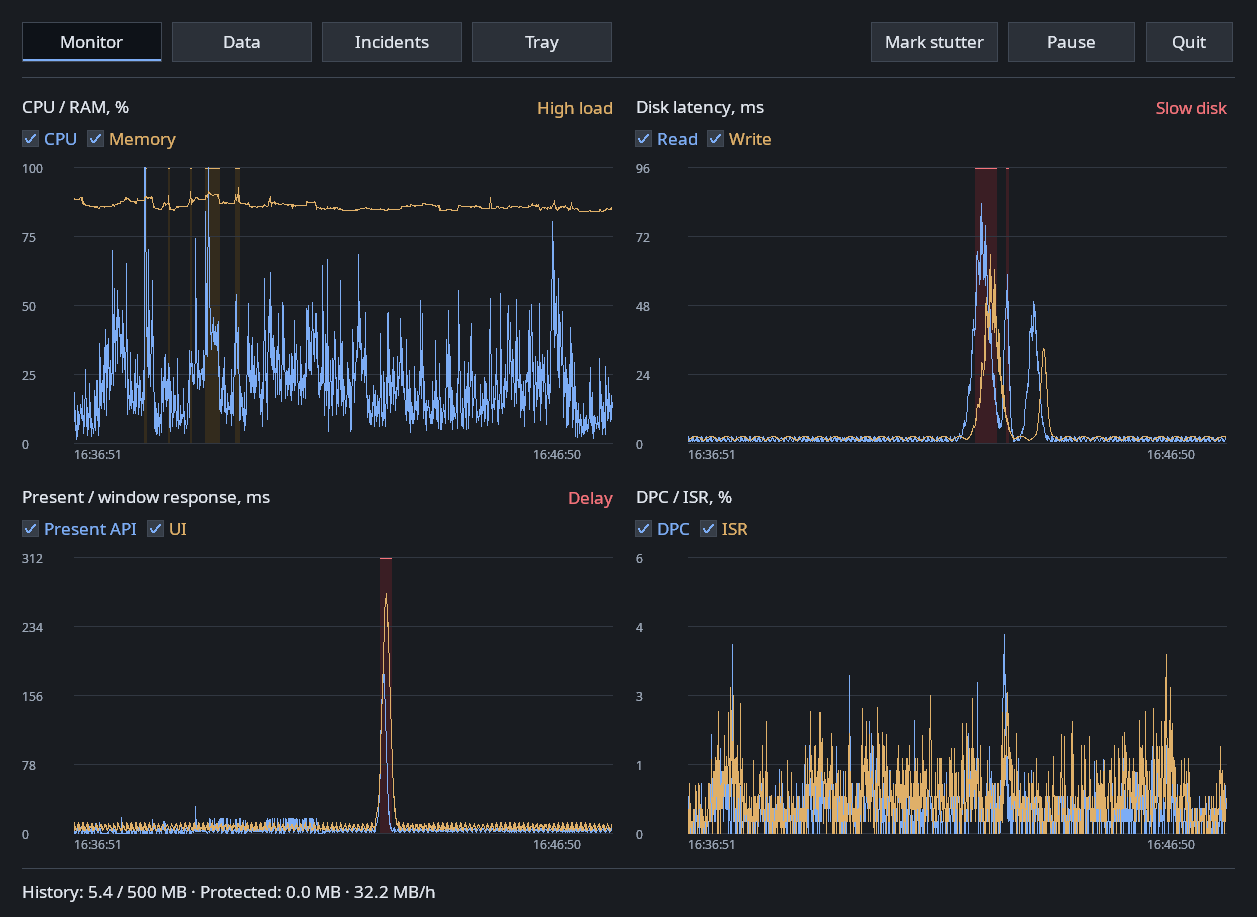
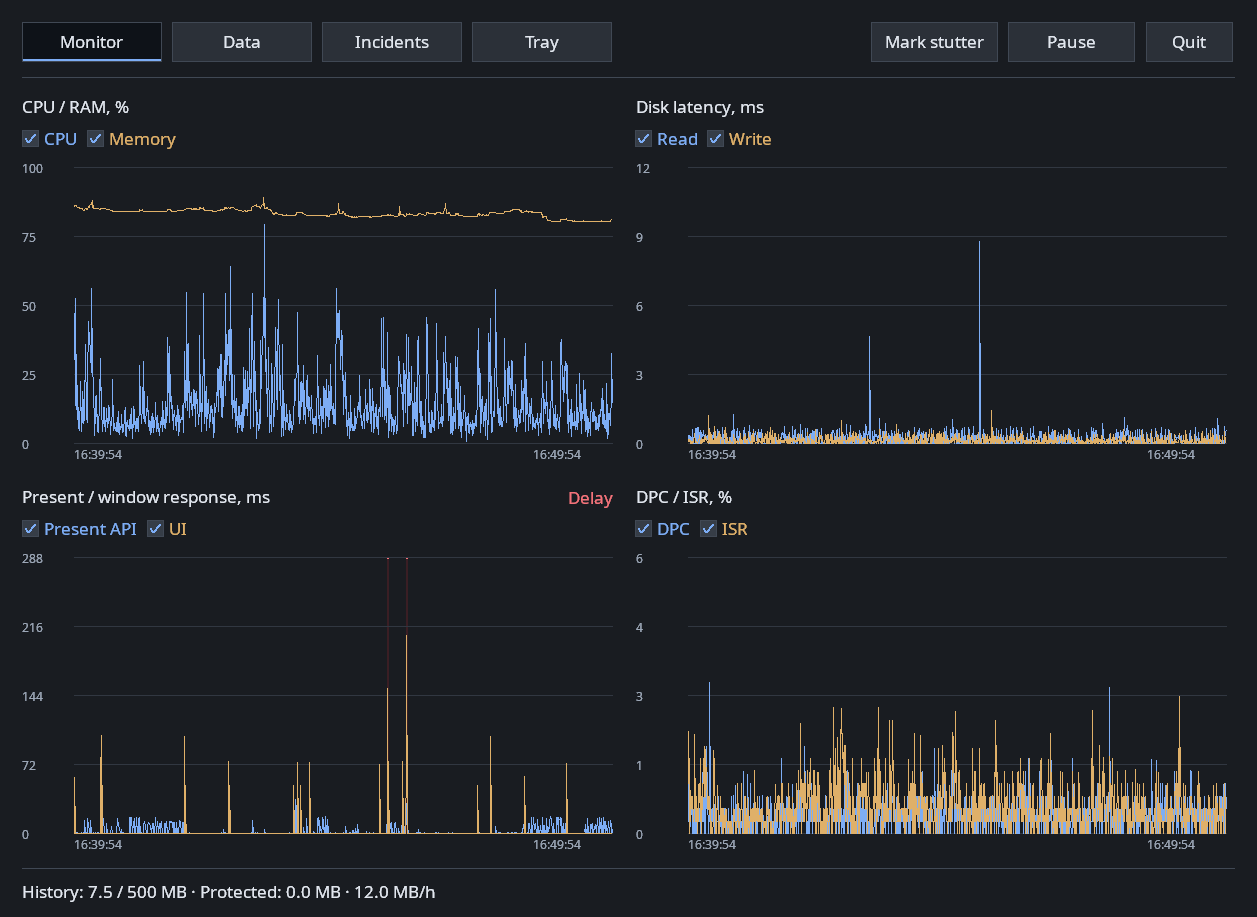
Center the README header links and use recorded monitoring curves

diff --git a/README.md b/README.md
@@ -2,13 +2,17 @@
 <h1 align="center">Stutter Watch</h1>
 <p align="center">A local performance recorder for Windows and Linux.</p>
 
-[![Windows](https://github.com/flochiii/stutter-watch/actions/workflows/ci.yml/badge.svg)](https://github.com/flochiii/stutter-watch/actions/workflows/ci.yml)
-[![Linux](https://github.com/flochiii/stutter-watch/actions/workflows/linux.yml/badge.svg)](https://github.com/flochiii/stutter-watch/actions/workflows/linux.yml)
-[![Release](https://img.shields.io/github/v/release/flochiii/stutter-watch)](https://github.com/flochiii/stutter-watch/releases)
-[![Rust 1.97.1](https://img.shields.io/badge/Rust-1.97.1-orange?logo=rust)](https://www.rust-lang.org/)
-[![License](https://img.shields.io/badge/License-PolyForm%20Noncommercial-6a9ed8)](LICENSE)
+<p align="center">
+  <a href="https://github.com/flochiii/stutter-watch/actions/workflows/ci.yml"><img src="https://github.com/flochiii/stutter-watch/actions/workflows/ci.yml/badge.svg?branch=main" alt="Windows CI"></a>
+  <a href="https://github.com/flochiii/stutter-watch/actions/workflows/linux.yml"><img src="https://github.com/flochiii/stutter-watch/actions/workflows/linux.yml/badge.svg?branch=main" alt="Linux CI"></a>
+  <a href="https://github.com/flochiii/stutter-watch/releases"><img src="https://img.shields.io/github/v/release/flochiii/stutter-watch" alt="Release"></a>
+  <a href="https://www.rust-lang.org/"><img src="https://img.shields.io/badge/Rust-1.97.1-orange?logo=rust" alt="Rust 1.97.1"></a>
+  <a href="LICENSE"><img src="https://img.shields.io/badge/License-PolyForm%20Noncommercial-6a9ed8" alt="License"></a>
+</p>
 
-[Download](https://github.com/flochiii/stutter-watch/releases) · [Windows](docs/WINDOWS_PORTABLE.md) · [Linux](docs/LINUX.md) · [Documentation](docs/GETTING_STARTED.md)
+<p align="center">
+  <a href="https://github.com/flochiii/stutter-watch/releases">Download</a> · <a href="docs/WINDOWS_PORTABLE.md">Windows</a> · <a href="docs/LINUX.md">Linux</a> · <a href="docs/GETTING_STARTED.md">Documentation</a>
+</p>
 
 Stutter Watch records system activity in the background and saves the context around freezes. Open an incident to inspect its charts and measurements. No accounts or log uploads.
 
